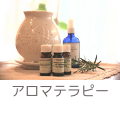
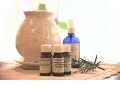
icon変更

diff --git a/css/main.css b/css/main.css
@@ -256,12 +256,22 @@ div.search-form
     top:8px;
     left:38px;
 }
+#headImage1s
+{
+    position:relative;
+    left:450px;
+}
 #headImage2
 {
     border: 0px;
     position:relative;
     top:8px;
     left:44px;
+}
+#headImage2s
+{
+    position:relative;
+    left:515px;
 }
 #headImage3
 {
@@ -270,13 +280,22 @@ div.search-form
     top:8px;
     left:50px;
 }
-
+#headImage3s
+{
+    position:relative;
+    left:550px;
+}
 #headImage4
 {
     border: 0px;
     position:relative;
     top:8px;
     left:56px;
+}
+#headImage4s
+{
+    position:relative;
+    left:550px;
 }
 
 .news .summary

diff --git a/protected/views/layouts/main.php b/protected/views/layouts/main.php
@@ -30,10 +30,20 @@ $imageUrl=$baseUrl.'/systemImages/';
 ?>
 	<div id="header" style="line-height:0px;">
 <?php echo CHtml::link(CHtml::image($imageUrl.'morning-dew-title-dark.png','', array('id'=>'titleImage')),preg_replace('/(admin|index)\.php/', '', $this->createUrl('/')), array('id'=>'titleImage')); ?>
+
 <?php echo CHtml::link(CHtml::image($imageUrl.'icon1.png','image1',array('id'=>'headImage1')),array('/article/show', 'id'=>2), array('id'=>'headImage1')); ?>
 <?php echo CHtml::link(CHtml::image($imageUrl.'icon2.png','image2',array('id'=>'headImage2')),array('/article/show', 'id'=>3), array('id'=>'headImage2')); ?>
 <?php echo CHtml::link(CHtml::image($imageUrl.'icon3.png','image3',array('id'=>'headImage3')),array('/article/show', 'id'=>4), array('id'=>'headImage3')); ?>
 <?php echo CHtml::link(CHtml::image($imageUrl.'icon4.png','image4',array('id'=>'headImage4')),array('/article/show', 'id'=>5), array('id'=>'headImage4')); ?>
+
+<div>
+  <br />
+  <span id="headImage1s">アロマテラピー</span>
+  <span id="headImage2s">ハーブ</span>
+  <span id="headImage3s">バッチフラワーレメディ</span>
+  <span id="headImage4s">ホリスティックケア</span>
+</div>
+
 
 	</div><!-- header -->
 
